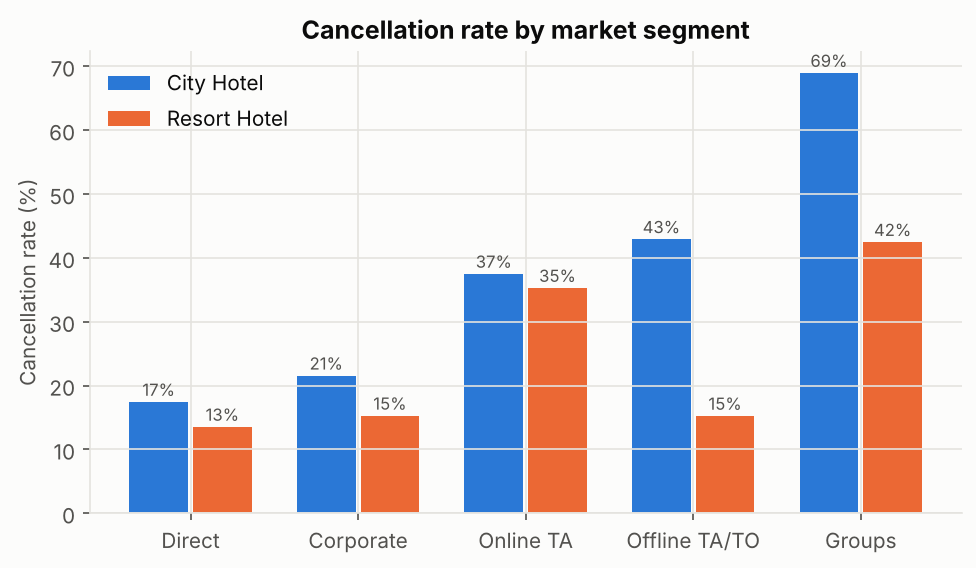
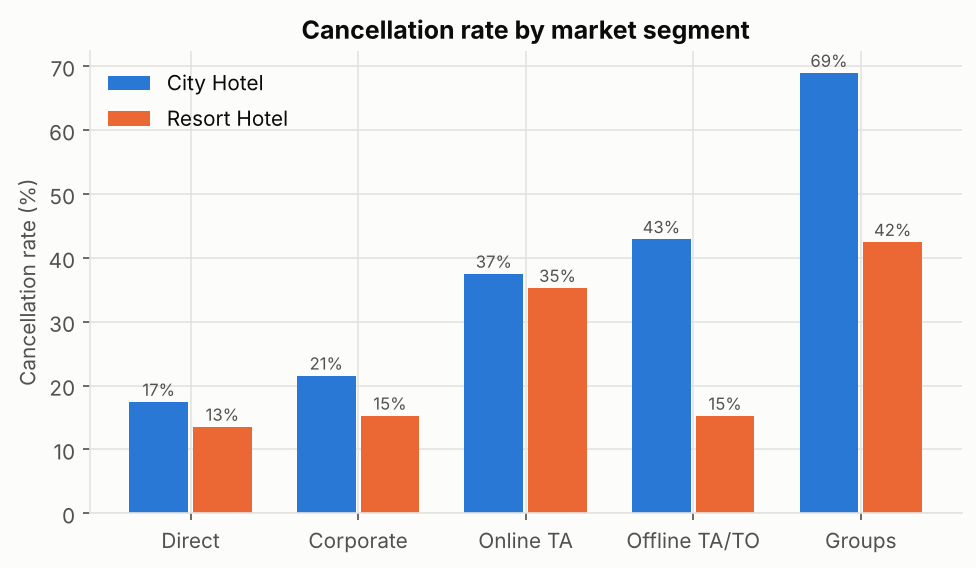
Draw chart gridlines below bars
Claude-Session: https://claude.ai/code/session_01PiXEMyStfP8yoXnpDWn8QF

diff --git a/scripts/style.py b/scripts/style.py
@@ -13,7 +13,7 @@ plt.rcParams.update({
     "figure.facecolor": SURFACE, "axes.facecolor": SURFACE, "savefig.facecolor": SURFACE,
     "axes.edgecolor": GRID, "axes.labelcolor": TEXT_2, "xtick.color": TEXT_2, "ytick.color": TEXT_2,
     "text.color": TEXT, "axes.grid": True, "grid.color": GRID, "grid.linewidth": 0.8,
-    "axes.spines.top": False, "axes.spines.right": False, "axes.titleweight": "bold",
+    "axes.spines.top": False, "axes.axisbelow": True, "axes.spines.right": False, "axes.titleweight": "bold",
     "axes.titlesize": 12, "font.size": 10, "lines.linewidth": 2, "legend.frameon": False,
     "figure.dpi": 110, "savefig.dpi": 150, "savefig.bbox": "tight",
 })
